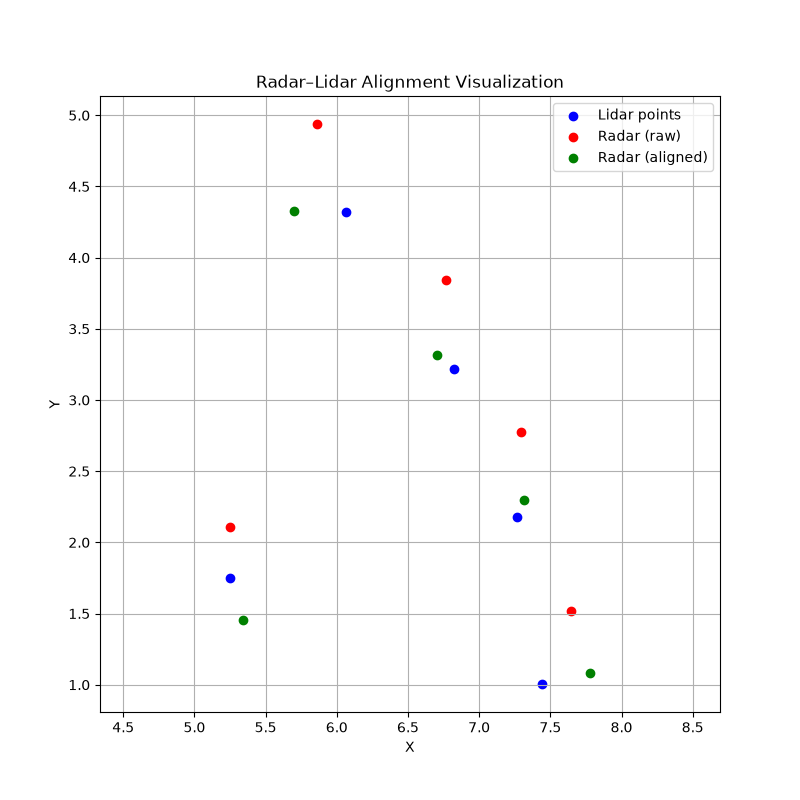
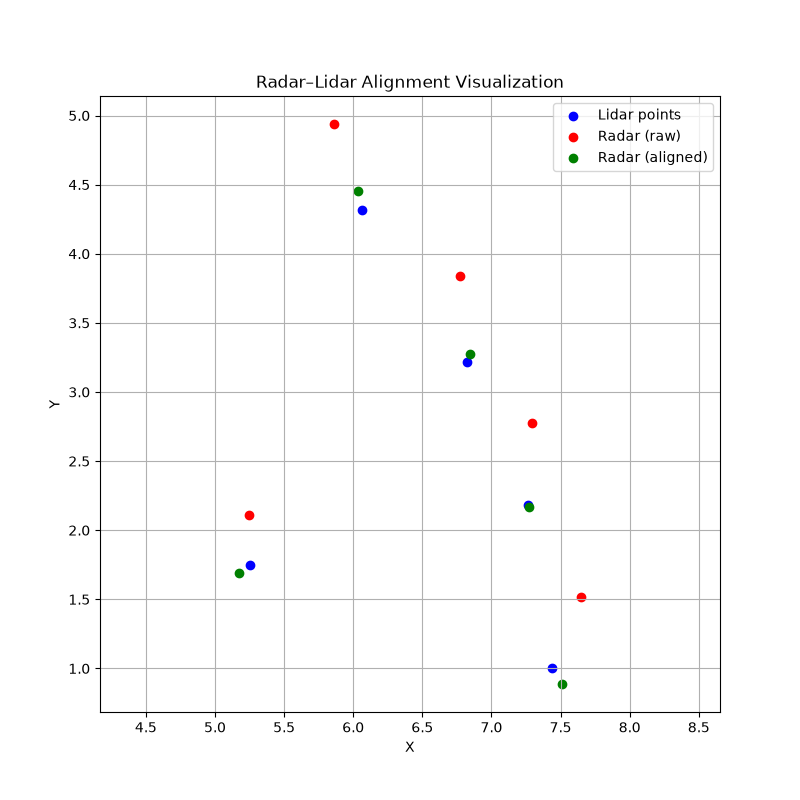
Nonlinear optimatization of extrinsic parameter - provides better alignment

diff --git a/radar_to_lidar_ext_calibrate.py b/radar_to_lidar_ext_calibrate.py
@@ -1,7 +1,8 @@
-import numpy as np
-import cv2
+import cv2
+import numpy as np
+from scipy.optimize import least_squares
 
-def solve_radar_lidar_extrinsics(lidar_pts, radar_pts):
+def solve_radar_lidar_extrinsics_svd(lidar_pts, radar_pts):
     """
     Estimate radar → lidar extrinsic calibration.
     Radar has no elevation, so we solve only for:
@@ -55,20 +56,176 @@ def solve_radar_lidar_extrinsics(lidar_pts, radar_pts):
     return yaw, R3, t3
 
 
+def solve_radar_lidar_extrinsics_ransac(lidar_pts, radar_pts, max_iters=500, threshold=0.15, min_inliers=3):
+    """
+    Robust radar→lidar calibration using RANSAC.
+    - lidar_pts: Nx3 lidar reflector centers
+    - radar_pts: Nx3 radar reflector centers
+    - max_iters: number of RANSAC iterations
+    - threshold: inlier distance threshold (meters)
+    - min_inliers: minimum number of inliers needed to accept a model
+    """
+
+    # Use only XY (radar has no elevation)
+    L = lidar_pts[:, :2]
+    R = radar_pts[:, :2]
+    N = len(L)
+
+    best_inliers = []
+    best_R2 = None
+    best_t2 = None
+
+    # ------------------------------------------------------------
+    # RANSAC LOOP
+    # ------------------------------------------------------------
+    for _ in range(max_iters):
+
+        # 1. Randomly pick 2 correspondences (minimum for 2D rotation)
+        idx = np.random.choice(N, 2, replace=False)
+        L_sample = L[idx]
+        R_sample = R[idx]
+
+        # 2. Compute rotation using SVD (same as your solver)
+        cL = L_sample.mean(axis=0)
+        cR = R_sample.mean(axis=0)
+        Lc = L_sample - cL
+        Rc = R_sample - cR
+
+        H = Rc.T @ Lc
+        U, _, Vt = np.linalg.svd(H)
+        R2 = U @ Vt
+
+        if np.linalg.det(R2) < 0:
+            U[:, -1] *= -1
+            R2 = U @ Vt
+
+        # 3. Compute translation
+        t2 = cL - R2 @ cR
+
+        # 4. Compute inliers
+        R_all = (R2 @ R.T).T + t2
+        errors = np.linalg.norm(L - R_all, axis=1)
+        inliers = np.where(errors < threshold)[0]
+
+        # 5. Keep best model
+        if len(inliers) > len(best_inliers):
+            best_inliers = inliers
+            best_R2 = R2
+            best_t2 = t2
+
+    # ------------------------------------------------------------
+    # Recompute final rotation/translation using all inliers
+    # ------------------------------------------------------------
+    if len(best_inliers) < min_inliers:
+        raise RuntimeError("RANSAC failed: not enough inliers")
+
+    L_in = L[best_inliers]
+    R_in = R[best_inliers]
+
+    cL = L_in.mean(axis=0)
+    cR = R_in.mean(axis=0)
+    Lc = L_in - cL
+    Rc = R_in - cR
+
+    H = Rc.T @ Lc
+    U, _, Vt = np.linalg.svd(H)
+    R2 = U @ Vt
+
+    if np.linalg.det(R2) < 0:
+        U[:, -1] *= -1
+        R2 = U @ Vt
+
+    t2 = cL - R2 @ cR
+
+    # ------------------------------------------------------------
+    # Convert to 3D rotation + translation
+    # ------------------------------------------------------------
+    R3 = np.eye(3)
+    R3[:2, :2] = R2
+    t3 = np.array([t2[0], t2[1], 0.0])
+
+    yaw = np.arctan2(R2[1,0], R2[0,0])
+
+    return yaw, R3, t3, best_inliers
+
+
+def refine_radar_lidar_extrinsics_nonlinear(lidar_pts, radar_pts, yaw_init, R_init, t_init):
+    """
+    Nonlinear least-squares refinement of radar→lidar extrinsics.
+    Parameters to optimize: yaw, tx, ty, tz.
+    lidar_pts: Nx3
+    radar_pts: Nx3
+    yaw_init: initial yaw (float, radians)
+    R_init: 3x3 initial rotation (from SVD/RANSAC)
+    t_init: 3-vector initial translation
+    """
+
+    L = lidar_pts  # (N, 3)
+    R = radar_pts  # (N, 3)
+
+    def residuals(params):
+        yaw, tx, ty, tz = params
+
+        # Build rotation from yaw only (around Z)
+        cy = np.cos(yaw)
+        sy = np.sin(yaw)
+        R_yaw = np.array([
+            [cy, -sy, 0.0],
+            [sy,  cy, 0.0],
+            [0.0, 0.0, 1.0]
+        ])
+
+        t = np.array([tx, ty, tz])
+
+        # Transform radar points
+        R_transformed = (R_yaw @ R.T).T + t
+
+        # Residuals: lidar - transformed radar
+        res = (L - R_transformed).reshape(-1)
+        return res
+
+    # Initial parameter vector
+    x0 = np.array([yaw_init, t_init[0], t_init[1], t_init[2]])
+
+    # Nonlinear least-squares
+    result = least_squares(residuals, x0, method="lm")
+
+    yaw_opt, tx_opt, ty_opt, tz_opt = result.x
+
+    cy = np.cos(yaw_opt)
+    sy = np.sin(yaw_opt)
+    R_opt = np.array([
+        [cy, -sy, 0.0],
+        [sy,  cy, 0.0],
+        [0.0, 0.0, 1.0]
+    ])
+    t_opt = np.array([tx_opt, ty_opt, tz_opt])
+
+    return yaw_opt, R_opt, t_opt, result
+
+
+
+
 if __name__ == "__main__":
 
     # Load Corner reflector points from Lidar and Radar
     lidar_means = np.load("outputs/lidar_means.npy")
     radar_means = np.load("outputs/radar_means.npy")
 
-    # Extrinsic calibration: Radar -> Lidar
-    yaw, R_rl, t_rl = solve_radar_lidar_extrinsics(lidar_means, radar_means)
+    # 1. Get initial solution (SVD or RANSAC)
+    yaw_init, R_init, t_init = solve_radar_lidar_extrinsics_svd(lidar_means, radar_means)
+    # yaw_init, R_init, t_init, inliers = solve_radar_lidar_extrinsics_ransac(lidar_means, radar_means)
+
+    # 2. Refine with nonlinear optimization
+    yaw_opt, R_opt, t_opt, result = refine_radar_lidar_extrinsics_nonlinear(
+        lidar_means, radar_means, yaw_init, R_init, t_init)
 
     # Stored calibrated parameters to numpy files
-    np.save("outputs/R_radar_lidar.npy", R_rl)
-    np.save("outputs/t_radar_lidar.npy", t_rl)
+    np.save("outputs/R_radar_lidar.npy", R_opt)
+    np.save("outputs/t_radar_lidar.npy", t_opt)
 
     # Print the calibrated parameters
-    print("Yaw (deg):", np.degrees(yaw))
-    print("R:\n", R_rl)
-    print("t:", t_rl)
+    print("Yaw (deg):", np.degrees(yaw_opt))
+    print("R:\n", R_opt)
+    print("t:", t_opt)
+    print("Least Squares:\n", result)
